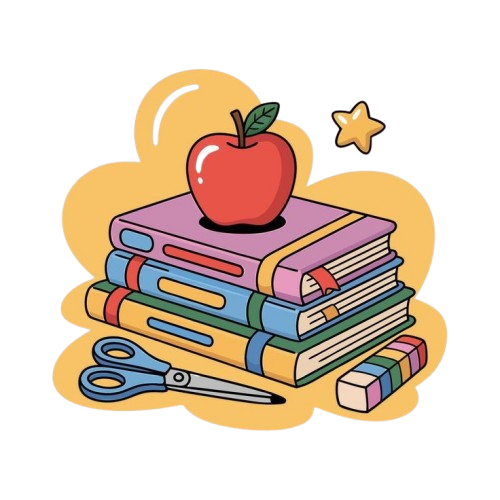
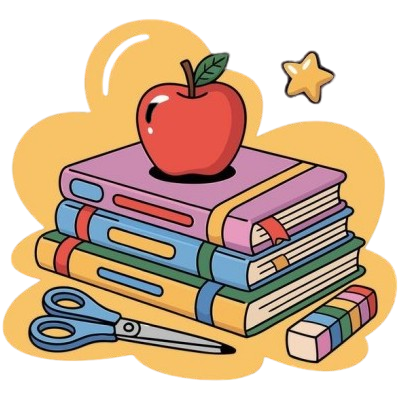
style: adjust dashboard responsiveness

diff --git a/src/features/dashboard/DashboardScreen.tsx b/src/features/dashboard/DashboardScreen.tsx
@@ -15,7 +15,6 @@ import { useMemo } from "react";
 import { routes } from "../../routes";
 import { useCurriculum } from "../../context/CurriculumContext";
 import { GreetingCard } from "./GreetingCard";
-import { grades } from "../../utils/grades";
 import { EmptyActivityCard } from "../../components/EmptyActivityCard";
 
 function flattenSubtopics(subjects: SubjectData[]): FlatSubtopic[] {
@@ -169,20 +168,20 @@ export function DashboardScreen() {
       {/* DESKSTOP VIEW (LARGER SCREENS) */}
       <div className="grid grid-cols-3 md:grid-cols-5 flex-1 grid-rows-3 gap-4 max-md:hidden">
         {/* Greeting card */}
-        <GreetingCard className="col-span-3 row-span-1" name={firstName} />
+        <GreetingCard className="col-span-5 lg:col-span-3 row-span-1" name={firstName} />
 
         {/* Weekly Activity Strip */}
-        <WeeklyActivityStrip activeDates={activeDates} className="col-span-2" />
+        <WeeklyActivityStrip activeDates={activeDates} className="col-span-5 lg:col-span-2" />
 
         {/* Overall progress snapshot */}
         <ProgressOverviewCard
-          className="col-span-2 row-span-1"
+          className="col-span-5 lg:col-span-2 row-span-1"
           completed={overall.completed}
           total={overall.total}
           subjectProgress={subjectProgress}
         />
         {/* PRIMARY ACTION + RECAP/WARM UP QUIZ */}
-        <div className="grid grid-cols-2 gap-2 col-span-3 row-span-1 ">
+        <div className="grid grid-cols-2 gap-2 col-span-5 lg:col-span-3 row-span-1 ">
           {/* Primary action card(unfinished quiz, a visited-but-not-quizzed subtopic, or nothing if none) */}
           {primaryAction && (
             <PrimaryActionCard
@@ -232,16 +231,17 @@ export function DashboardScreen() {
         </div>
 
         {/* Tip of the day */}
-        <TipOfTheDay className="col-span-2 flex flex-col justify-center bg-amber-500/50" />
+        <TipOfTheDay className="col-span-2 flex flex-col bg-amber-500/50" />
 
         {/* recent activity (recent subtopics, quizzes) */}
         {recentActivity.length > 0 && (
-          <div className="min-w-0 bg-amber-100 rounded-md p-2 col-span-3">
+          <div className="min-w-0 bg-amber-100 rounded-md p-2 flex flex-col gap-1 col-span-3">
             <h2 className="font-semibold mb-2">Recent activity</h2>
             <Carousel>
               {recentActivity.map((item, i) => (
                 <RecentActivityCard
                   key={`${item.subject}-${item.subtopic}-${i}`}
+                  className="h-40"
                   {...item}
                 />
               ))}
@@ -311,7 +311,7 @@ export function DashboardScreen() {
 
         {/* recent activity (recent subtopics, quizzes) */}
         {recentActivity.length > 0 && (
-          <div className="min-w-0">
+          <div className="min-w-0 relative">
             <h2 className="font-semibold mb-2">Recent activity</h2>
             <Carousel>
               {recentActivity.map((item, i) => (

diff --git a/src/features/dashboard/GreetingCard.tsx b/src/features/dashboard/GreetingCard.tsx
@@ -47,13 +47,13 @@ export function GreetingCard({ name, className }: GreetingCardProps) {
   });
 
   return (
-    <Card variant="greeting" className={`overflow-visible ${className ?? ""}`}>
+    <Card variant="greeting" className={`overflow-visible flex flex-row-reverse items-center justify-between ${className ?? ""}`}>
       {/* decorative stars poking slightly out of the top */}
-      <div className="pointer-events-none absolute -top-8 right-6 z-10 flex items-end gap-1">
-        <img src={stackedBooks} alt="stacked books" className="w-78" />
+      <div className="pointer-events-none z-10 flex items-end gap-1">
+        <img src={stackedBooks} alt="stacked books" className=" w-65 lg:w-60" />
       </div>
 
-      <div className="flex h-full flex-col gap-5 pr-4">
+      <div className="flex h-full justify-start pt-3 flex-col gap-5 pr-4">
         <div>
           <h2 className="text-2xl font-semibold">
             {greeting}, {name}

diff --git a/src/components/Card.tsx b/src/components/Card.tsx
@@ -1,6 +1,6 @@
 
 interface CardProps {
-  variant: "subject" | "review" | "warmup" | "welcome" | "question" | "option" | "action" | "tip" | "greeting" | "empty";
+  variant: "subject"  |"recent" | "review" | "warmup" | "welcome" | "question" | "option" | "action" | "tip" | "greeting" | "empty";
   children: React.ReactNode;
   onClick?: () => void;
   className?: string;
@@ -9,6 +9,7 @@ interface CardProps {
 
 const variantStyles: Record<CardProps["variant"], string> = {
   subject: "rounded-md bg-white shadow-sm border border-gray-200",
+  recent: "rounded-md bg-white shadow-sm border border-gray-200",
   review: "rounded-md bg-orange-50 border border-orange-200",
   warmup: "rounded-md bg-amber-100 border border-amber-300",
   welcome: "rounded-md bg-white shadow-md border border-gray-200 h-full flex flex-col justify-center",

diff --git a/src/components/Carousel.tsx b/src/components/Carousel.tsx
@@ -1,5 +1,6 @@
 import { useRef, useState, useEffect } from "react";
 import { ChevronLeft, ChevronRight } from "lucide-react";
+import "./Components.css"
 
 export function Carousel({ children }: { children: React.ReactNode }) {
   const scrollRef = useRef<HTMLDivElement>(null);
@@ -30,7 +31,7 @@ export function Carousel({ children }: { children: React.ReactNode }) {
   }
 
   return (
-    <div className="relative min-w-0">
+    <div className="relative min-w-0 no-scrollbar">
       <div ref={scrollRef} className="flex gap-2 overflow-x-auto scroll-smooth snap-x snap-mandatory no-scrollbar">
         {children}
       </div>

diff --git a/src/components/RecentActivityCard.tsx b/src/components/RecentActivityCard.tsx
@@ -9,8 +9,8 @@ interface RecentActivityCardProps {
 
 export function RecentActivityCard({ subject, subtopic, score, className }: RecentActivityCardProps) {
   return (
-    <div className="flex-shrink-0 w-40 snap-start">
-      <Card variant="subject" className={className}>
+    <div className={`shrink-0 w-50 snap-start ${className}`}>
+      <Card variant="recent">
         <p className="text-xs text-gray-500">{subject}</p>
         <p className="text-sm font-medium">{subtopic}</p>
         {score && <p className="text-xs text-gray-500 mt-1">{score.correct}/{score.total}</p>}

diff --git a/src/components/TipOfTheDay.tsx b/src/components/TipOfTheDay.tsx
@@ -14,8 +14,8 @@ function getTipForToday(): string {
 export function TipOfTheDay({className}: {className?: string;}) {
   return (
     <Card variant="tip" className={className}>
-      <p className="text-xs font-semibold text-orange-500 mb-1 md:text-2xl">💡 Did you know?</p>
-      <p className="text-sm text-gray-700 md:text-xl">{getTipForToday()}</p>
+      <p className="text-xs font-semibold text-orange-500 mb-1 md:text-lg lg:text-2xl">💡 Did you know?</p>
+      <p className="text-sm text-gray-700 md:text-lg lg:text-xl">{getTipForToday()}</p>
     </Card>
   );
 }

diff --git a/src/components/EmptyActivityCard.tsx b/src/components/EmptyActivityCard.tsx
@@ -2,7 +2,7 @@ import { Card } from "./Card";
 
 export function EmptyActivityCard() {
   return (
-    <div className="flex-shrink-0 w-40 snap-start">
+    <div className="shrink-0 w-50 snap-start">
       <Card variant="empty" className="flex items-center justify-center h-full min-h-[64px]">
         <span className="text-xs text-gray-400">No activity yet</span>
       </Card>
